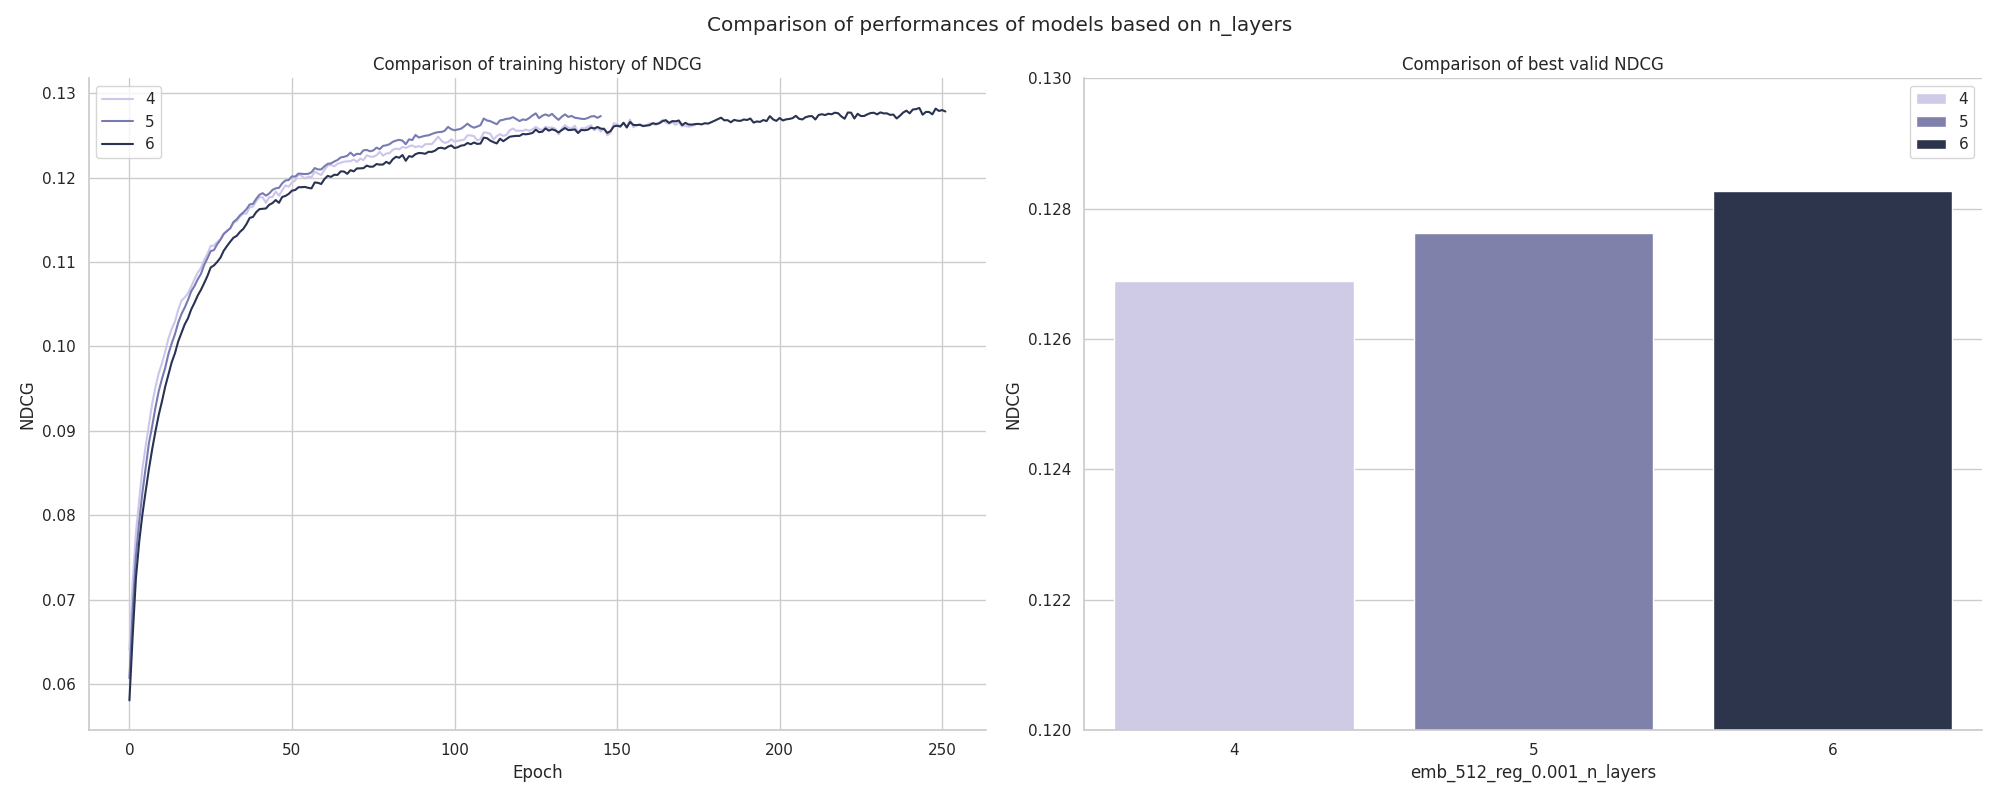
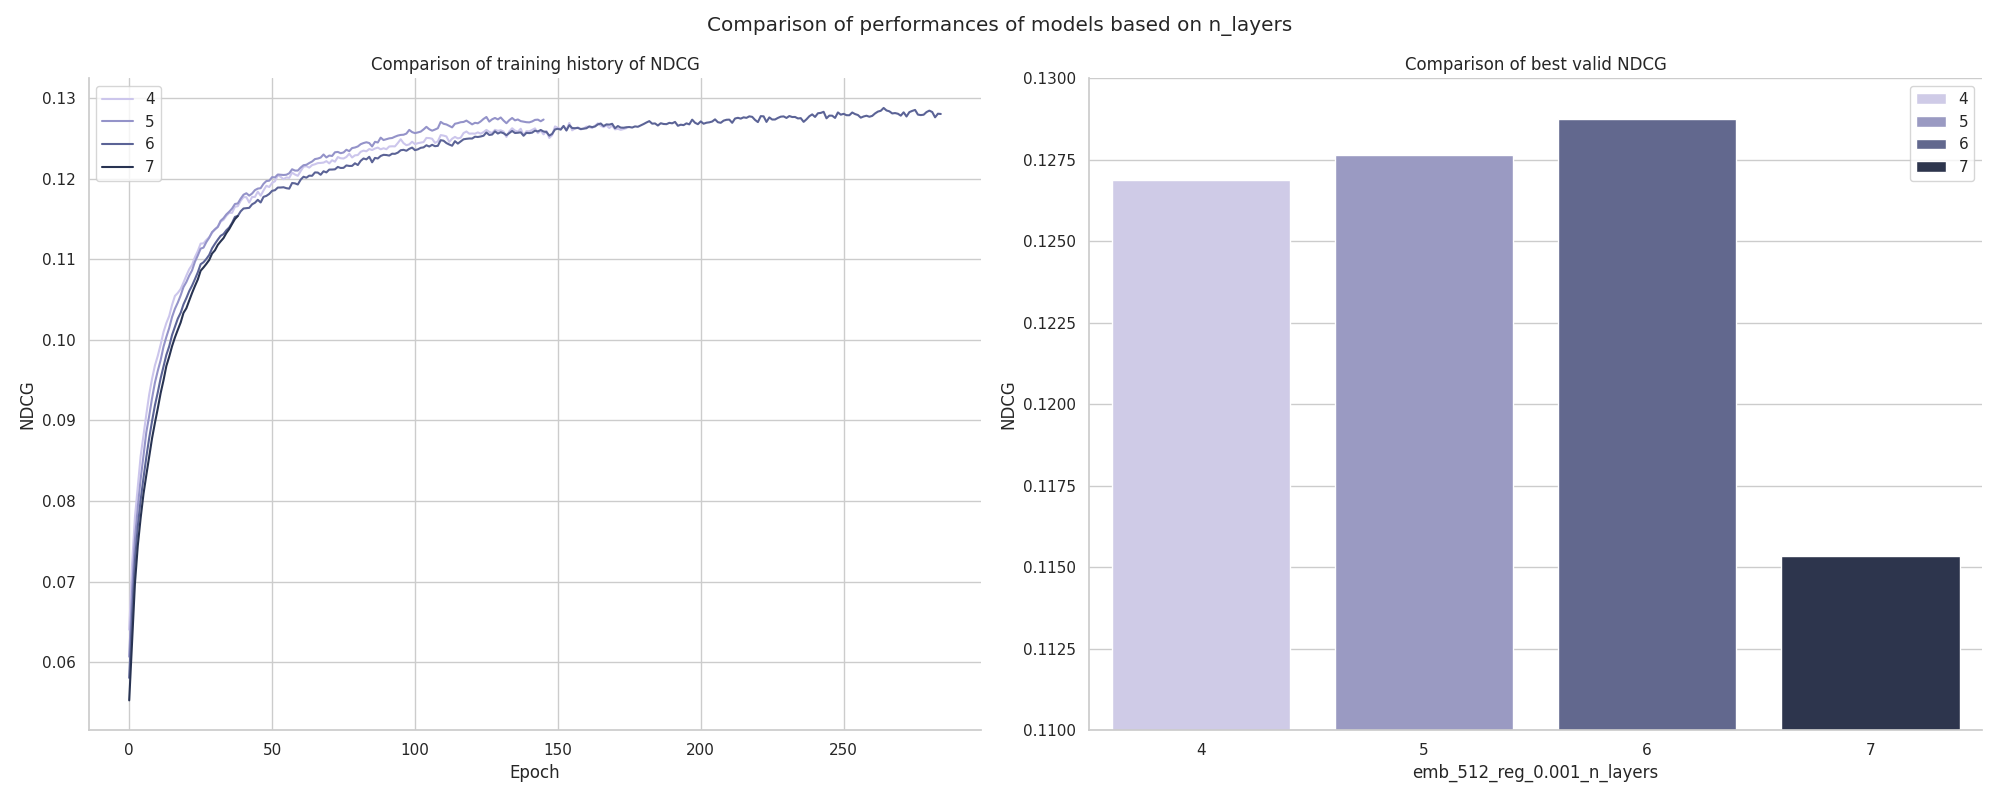
add gentle layer weights decay

diff --git a/training/lightgcn.py b/training/lightgcn.py
@@ -14,6 +14,20 @@ class LightGCN(nn.Module):
 
         nn.init.xavier_normal_(self.embedding.weight)
 
+        weight_method = cfg.model.get("weighting", "uniform")
+
+        num_weights = self.n_layers + 1
+        if weight_method == "uniform":
+            weights = torch.ones(num_weights)
+        elif weight_method == "gentle":
+            decay = cfg.model.get("decay", 0.1)
+            weights = torch.ones(num_weights) - torch.arange(num_weights) * decay
+        else:
+            raise NotImplementedError
+
+        weights = weights / torch.sum(weights)
+        self.register_buffer("layer_weights", weights)
+
     def forward(self, graph):
         all_emb = self.embedding.weight
         embs = [all_emb]
@@ -24,7 +38,8 @@ class LightGCN(nn.Module):
             embs.append(x)
 
         embs = torch.stack(embs, dim=1)
-        light_out = torch.mean(embs, dim=1)
+        weights = self.layer_weights.view(1, -1, 1)
+        light_out = torch.sum(embs * weights, dim=1)
 
         users_emb, items_emb = torch.split(light_out, [self.n_users, self.n_items])
         return users_emb, items_emb

diff --git a/utils.py b/utils.py
@@ -53,6 +53,9 @@ def split_embeddings(cfg):
     target_chunk_size_mb = 50
     num_chunks = math.ceil(file_size / target_chunk_size_mb)
 
+    if os.path.exists(f"{cfg.paths.embedding}/{cfg.name}"):
+        return
+
     print(f"    Splitting into {num_chunks} chunks")
     users_emb, items_emb = torch.load(f"{model_path}.pt")
     users_chunks = torch.chunk(users_emb, num_chunks, dim=1)

diff --git a/main.py b/main.py
@@ -57,11 +57,12 @@ def train_model(cfg):
     trainer = Trainer(cfg, model)
     trainer.train()
 
-    split_embeddings(cfg)
-
 def evaluate_model(cfg):
     if not check_training_completed(cfg):
         return
+
+    print("    Splitting embeddings...")
+    split_embeddings(cfg)
 
     print("    Updating performance csv...")
     update_performance_csv(cfg)
